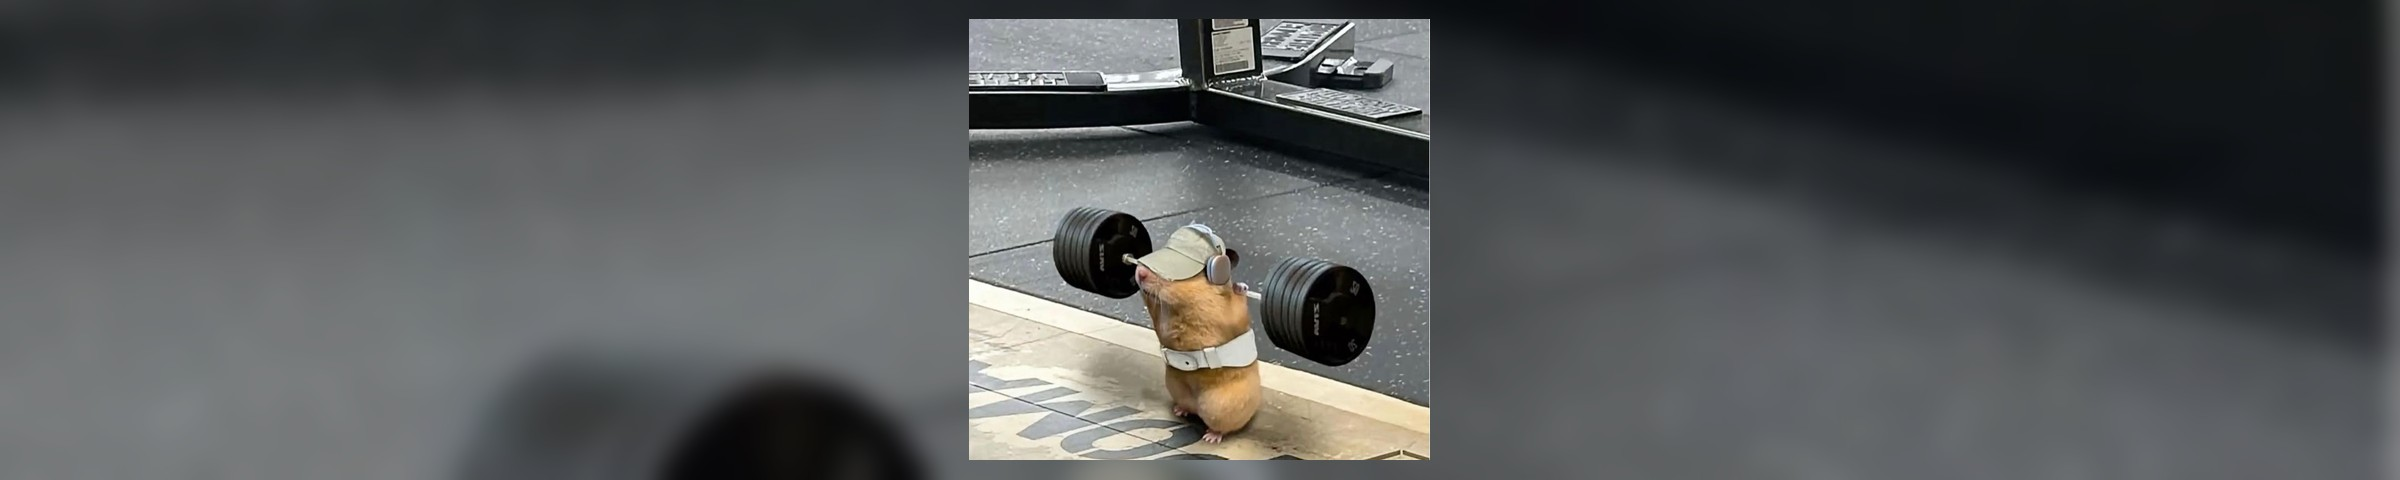
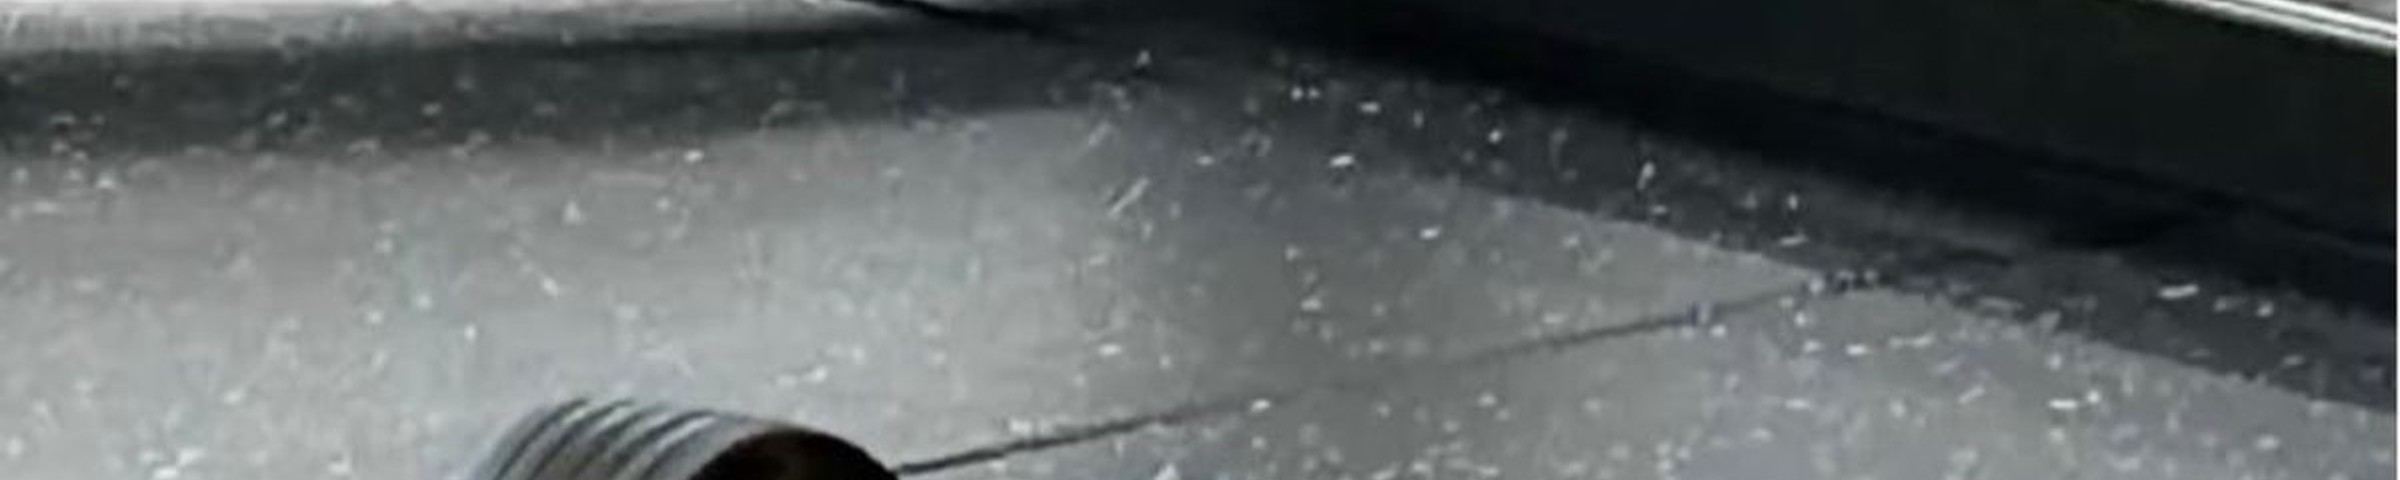
fix(ui): 학생 배너 검은 배경 제거, 사진으로 가로 전체 채움
- 블러/검은 합성 제거, cover 크롭 배너만 사용
- UI 배경색 제거, aspect 5:1 object-cover

diff --git a/frontend/src/components/StudentBanner.tsx b/frontend/src/components/StudentBanner.tsx
@@ -1,7 +1,7 @@
 import { useState } from 'react';
 
-/** 2400×480 (5:1) 합성 배너 — 가로 꽉 채우고 햄스터 전체 노출 */
-const BANNER_SRC = '/student-banner.jpg?v=fill2';
+/** 2400×480 cover 크롭 배너 — 가로 전체를 사진으로 채움 */
+const BANNER_SRC = '/student-banner.jpg?v=fill3';
 
 export function StudentBanner({ alt = '학생 배너' }: { alt?: string }) {
   const [visible, setVisible] = useState(true);
@@ -9,7 +9,7 @@ export function StudentBanner({ alt = '학생 배너' }: { alt?: string }) {
   if (!visible) return null;
 
   return (
-    <div className="w-full overflow-hidden rounded-xl border border-gray-200 bg-neutral-900">
+    <div className="w-full overflow-hidden rounded-xl border border-gray-200">
       <div className="relative w-full aspect-[5/1]">
         <img
           src={BANNER_SRC}
@@ -19,11 +19,11 @@ export function StudentBanner({ alt = '학생 배너' }: { alt?: string }) {
           onError={(e) => {
             const img = e.currentTarget;
             if (img.dataset.fallback === 'source') {
-              img.dataset.fallback = 'done';
-              img.src = '/student-banner-source.jpg?v=fill1';
+              setVisible(false);
               return;
             }
-            setVisible(false);
+            img.dataset.fallback = 'source';
+            img.src = '/student-banner-source.jpg?v=fill3';
           }}
         />
       </div>

diff --git a/frontend/scripts/build-student-banner.py b/frontend/scripts/build-student-banner.py
@@ -1,8 +1,8 @@
 #!/usr/bin/env python3
-"""가로 전체 채움 + 햄스터 전체 노출: 블러 배경 + 중앙 선명 합성."""
+"""원본 사진으로 5:1 배너를 꽉 채움(cover 크롭, 검은 여백 없음)."""
 from pathlib import Path
 
-from PIL import Image, ImageFilter
+from PIL import Image
 
 ROOT = Path(__file__).resolve().parents[1]
 PUBLIC = ROOT / "public"
@@ -11,35 +11,23 @@ OUT = PUBLIC / "student-banner.jpg"
 
 BANNER_W = 2400
 BANNER_H = 480
-FG_HEIGHT_RATIO = 0.92
 
 
-def cover_crop(img: Image.Image, tw: int, th: int) -> Image.Image:
+def cover_crop(img: Image.Image, tw: int, th: int, top_bias: float = 0.32) -> Image.Image:
     scale = max(tw / img.width, th / img.height)
     w, h = int(img.width * scale), int(img.height * scale)
     resized = img.resize((w, h), Image.Resampling.LANCZOS)
-    left = (w - tw) // 2
-    top = int((h - th) * 0.35)  # 햄스터·역기 쪽을 조금 더 보이게
+    left = max(0, (w - tw) // 2)
+    top = int((h - th) * top_bias)
     top = max(0, min(top, h - th))
     return resized.crop((left, top, left + tw, top + th))
 
 
 def main() -> None:
     src = Image.open(SRC).convert("RGB")
-
-    bg = cover_crop(src, BANNER_W, BANNER_H).filter(ImageFilter.GaussianBlur(14))
-    # 배경을 살짝 어둡게
-    bg = Image.blend(bg, Image.new("RGB", bg.size, (20, 20, 24)), alpha=0.35)
-
-    fg_h = int(BANNER_H * FG_HEIGHT_RATIO)
-    fg_scale = fg_h / src.height
-    fg_w = int(src.width * fg_scale)
-    fg = src.resize((fg_w, fg_h), Image.Resampling.LANCZOS)
-
-    canvas = bg.copy()
-    canvas.paste(fg, ((BANNER_W - fg_w) // 2, (BANNER_H - fg_h) // 2))
-    canvas.save(OUT, format="JPEG", quality=90, optimize=True)
-    print(f"Wrote {OUT} ({BANNER_W}x{BANNER_H}), fg {fg_w}x{fg_h}")
+    banner = cover_crop(src, BANNER_W, BANNER_H)
+    banner.save(OUT, format="JPEG", quality=90, optimize=True)
+    print(f"Wrote {OUT} ({BANNER_W}x{BANNER_H})")
 
 
 if __name__ == "__main__":